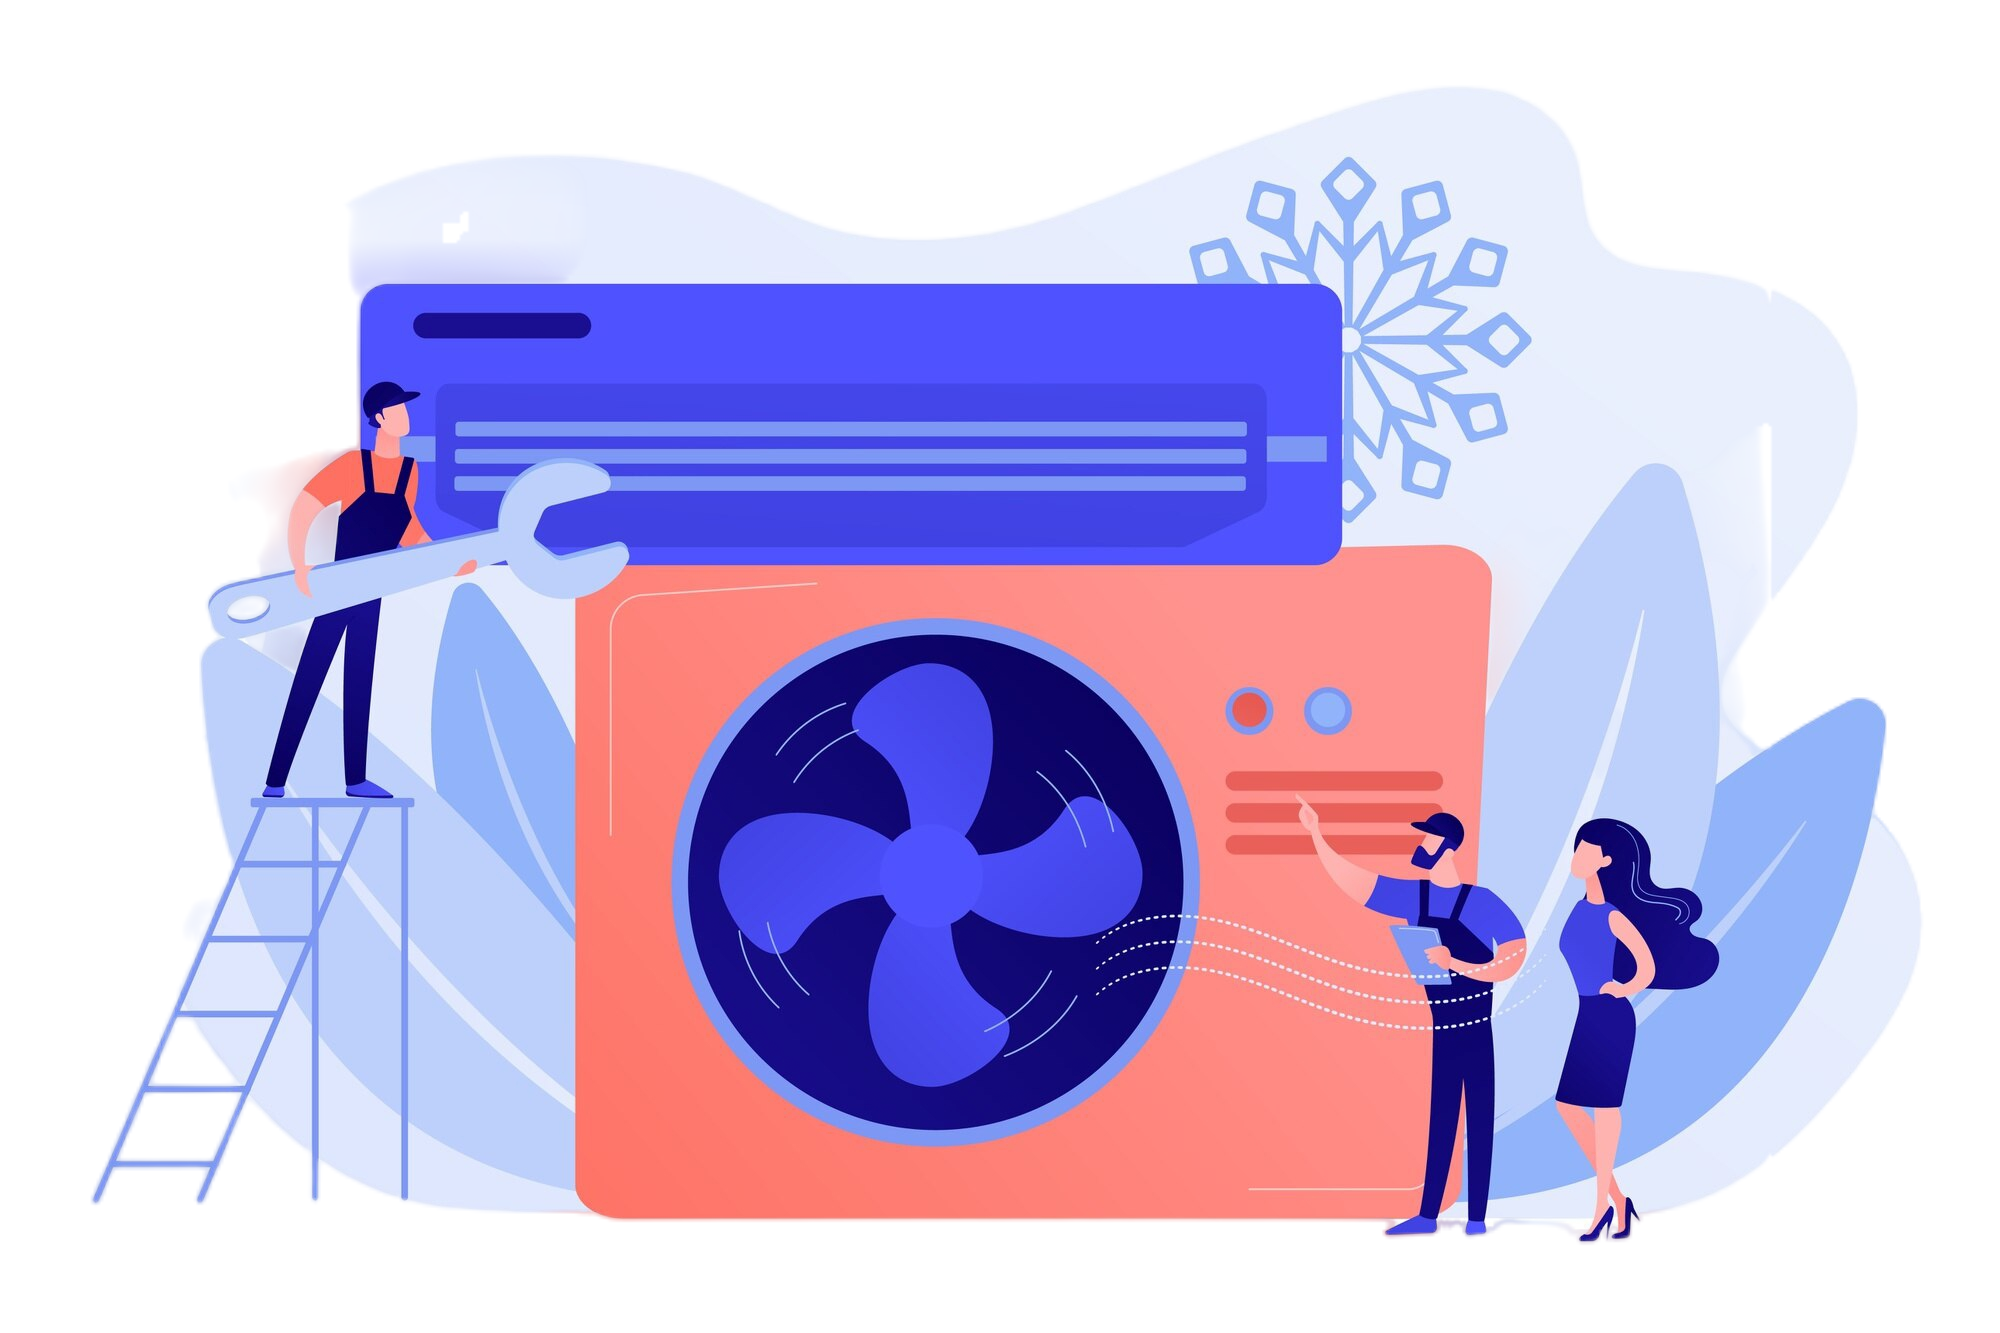
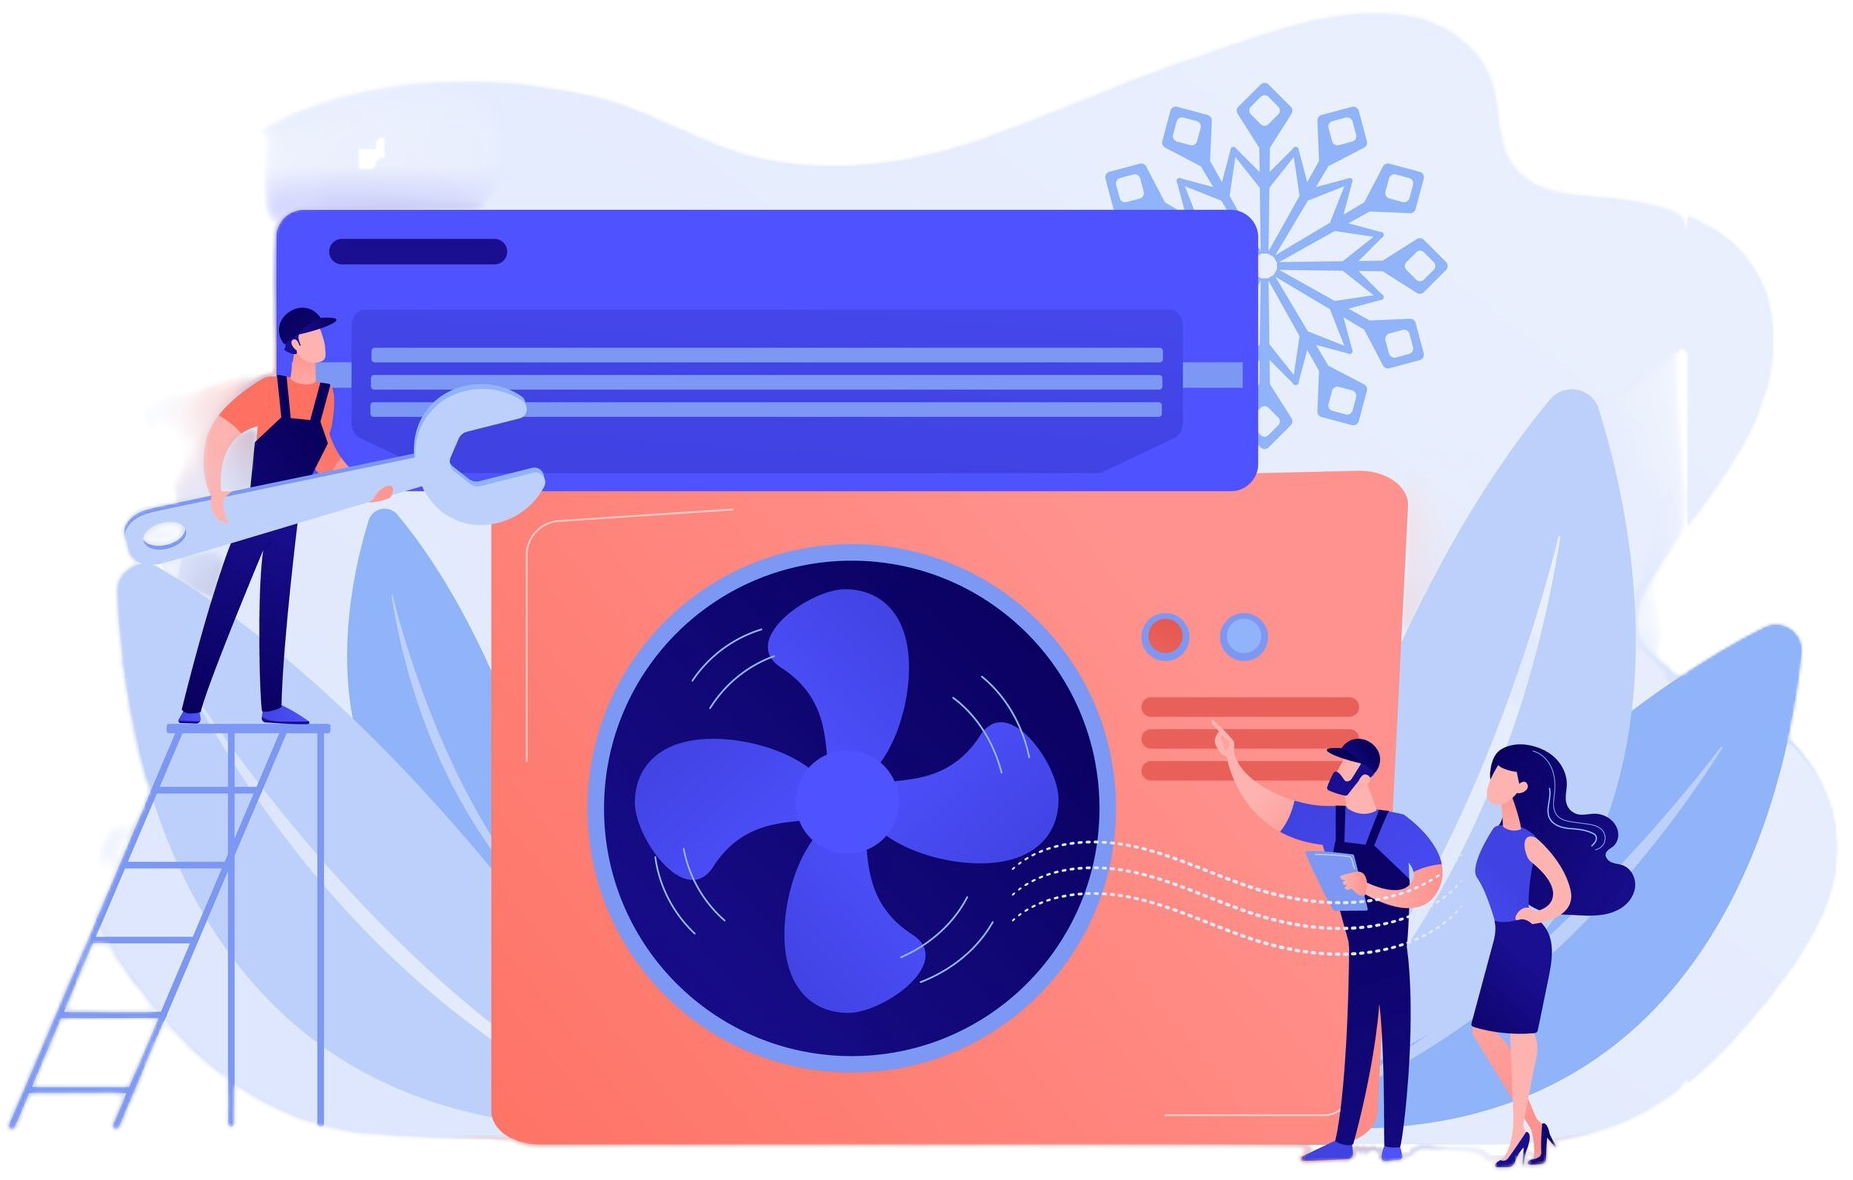
refactor: improving responsive design

diff --git a/index.html b/index.html
@@ -86,7 +86,7 @@
 
   <main class="px-10 lg:px-52">
     <div class="flex justify-between items-center py-10 mt-10 flex-col-reverse lg:flex-row" id="home">
-      <div class="lg:w-2/5	mt-16">
+      <div class="lg:w-2/5 mt-16">
         <h2 class="font-bold text-5xl mb-3">
           Assistência técnica especializada
         </h2>
@@ -103,7 +103,7 @@
         </div>
       </div>
 
-      <div class="lg:w-3/5 hidden lg:block">
+      <div class="lg:w-3/5 hidden lg:p-4 lg:block">
         <img src="assets/images/air_conditioner_service.png" alt="" class="image_banner">
       </div>
     </div>

diff --git a/styles/main.css b/styles/main.css
@@ -1,6 +1,6 @@
 @import url('https://fonts.googleapis.com/css2?family=Mulish:ital,wght@0,200..1000;1,200..1000&display=swap');
 
-*{
+* {
   margin: 0;
   padding: 0;
 }
@@ -11,15 +11,18 @@ body {
   font-style: normal;
 }
 
-.image_banner {
-  width: 693px;
-  height: 498px;
-}
-
 .card {
   width: 350px;
   background-color: white;
   box-shadow: 5px 5px 30px rgba(56, 56, 56, 0.164);
   border-radius: 20px;
   padding: 30px;
+}
+
+@media (max-width: 1300px) {
+  .image_banner {
+    width: 500px;
+    height: 390px;
+    margin-left: 40px;
+  }
 }
